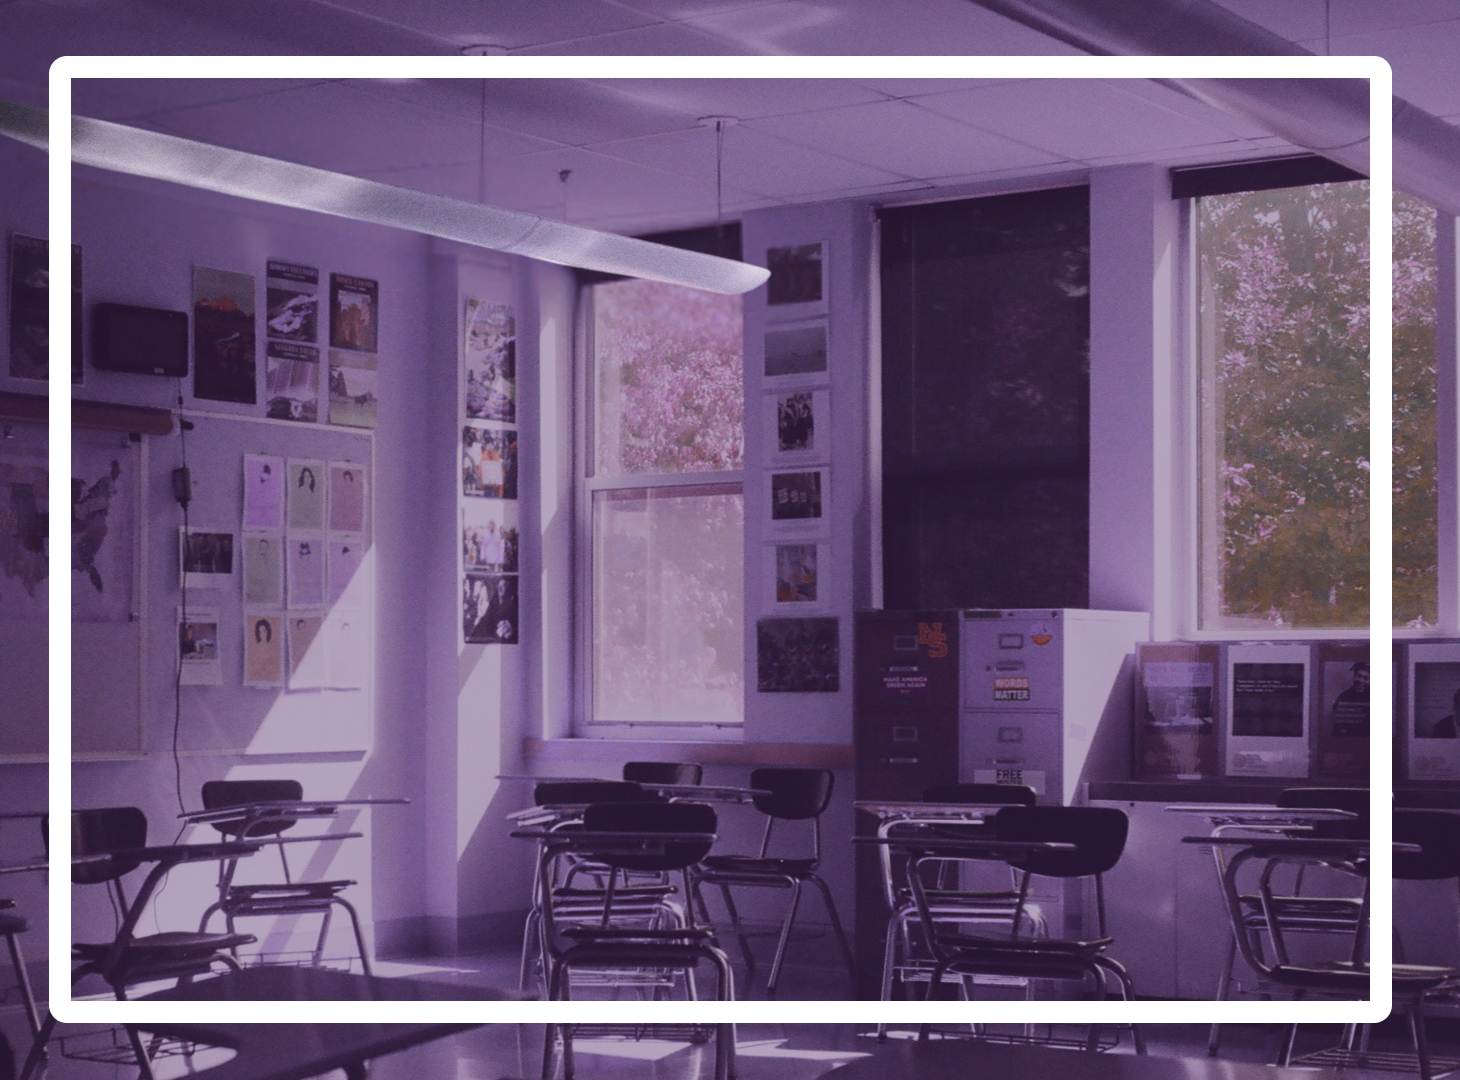
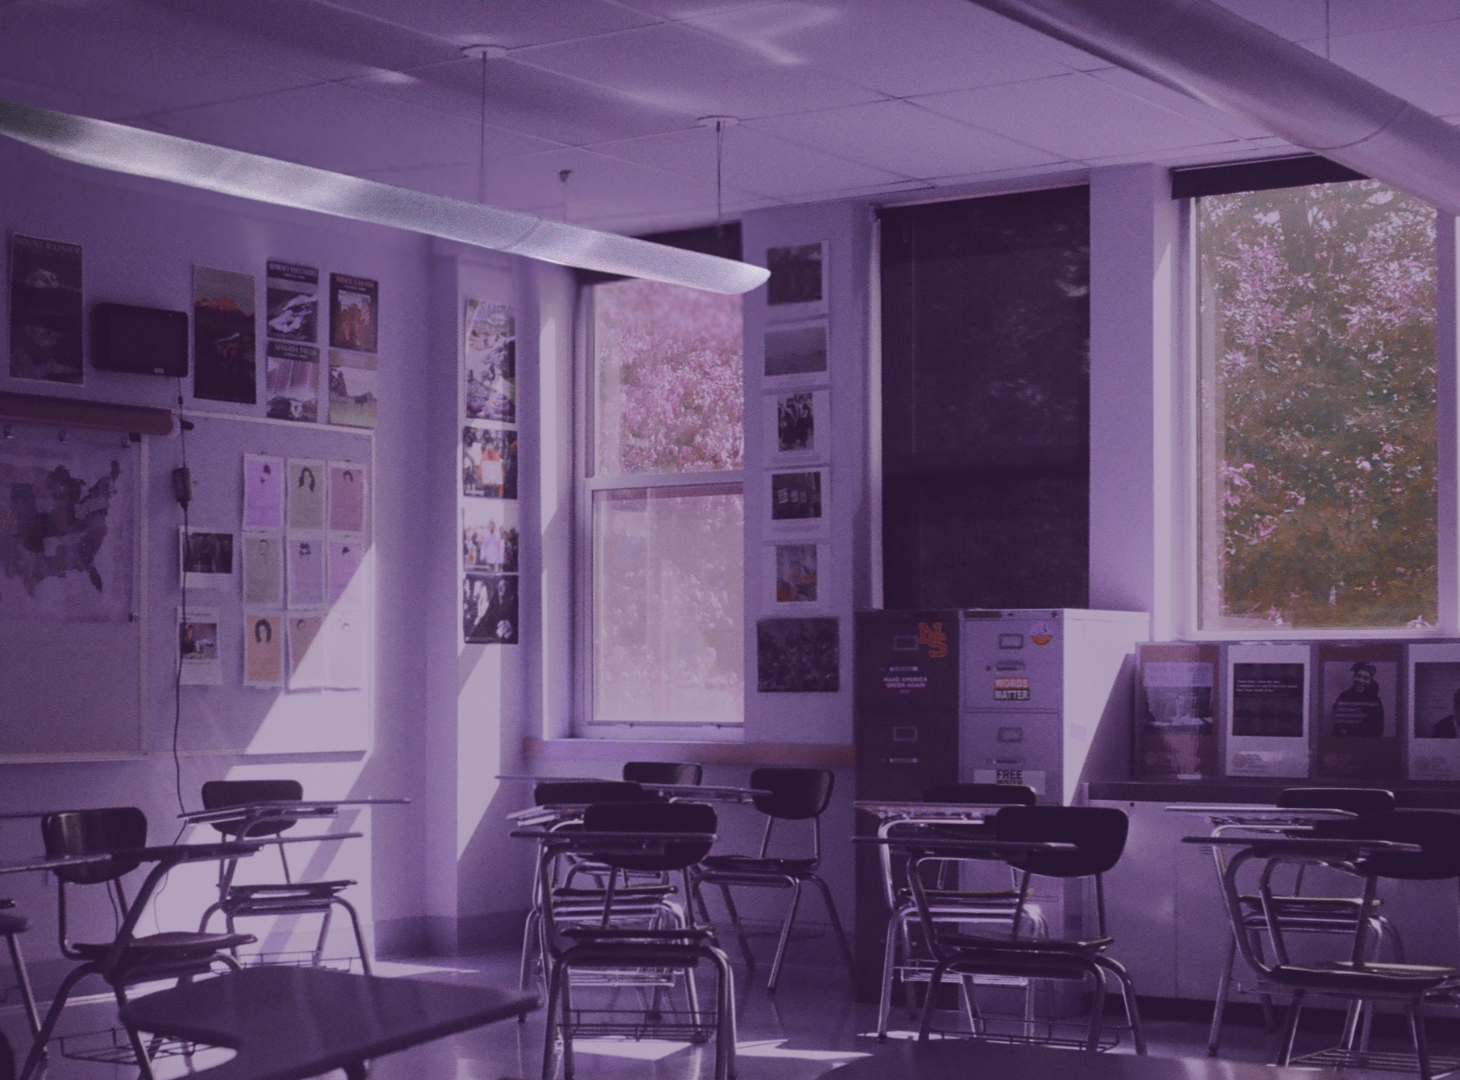
imgforms

Changed region(s): [[0.0308, 0.0306, 0.9555, 0.9472]]

diff --git a/pages/admin-login.php b/pages/admin-login.php
@@ -41,8 +41,8 @@ unset($_SESSION['login_error'], $_SESSION['signup_success_modal'], $_SESSION['lo
         <img src="../images/landing/bgforms-yellow.jpg" alt="" class="bg-base bg-hover" loading="lazy">
 
         <!--Div Border-->
-        <!-- <div class="border-glow" style="position: absolute; inset: 0; box-sizing: border-box; z-index: 1; border-radius: 10px; pointer-events: none;"></div>
-        <div class="border-gradient" style="position: absolute; inset: 0; box-sizing: border-box; z-index: 1; border-radius: 10px; pointer-events: none;"></div> -->
+        <div class="border-glow" style="position: absolute; inset: 0; box-sizing: border-box; z-index: 1; border-radius: 10px; pointer-events: none;"></div>
+        <div class="border-gradient" style="position: absolute; inset: 0; box-sizing: border-box; z-index: 1; border-radius: 10px; pointer-events: none;"></div>
 
         <div class="return-container">
         <a class="medium d-flex justify-content-center align-items-center"
